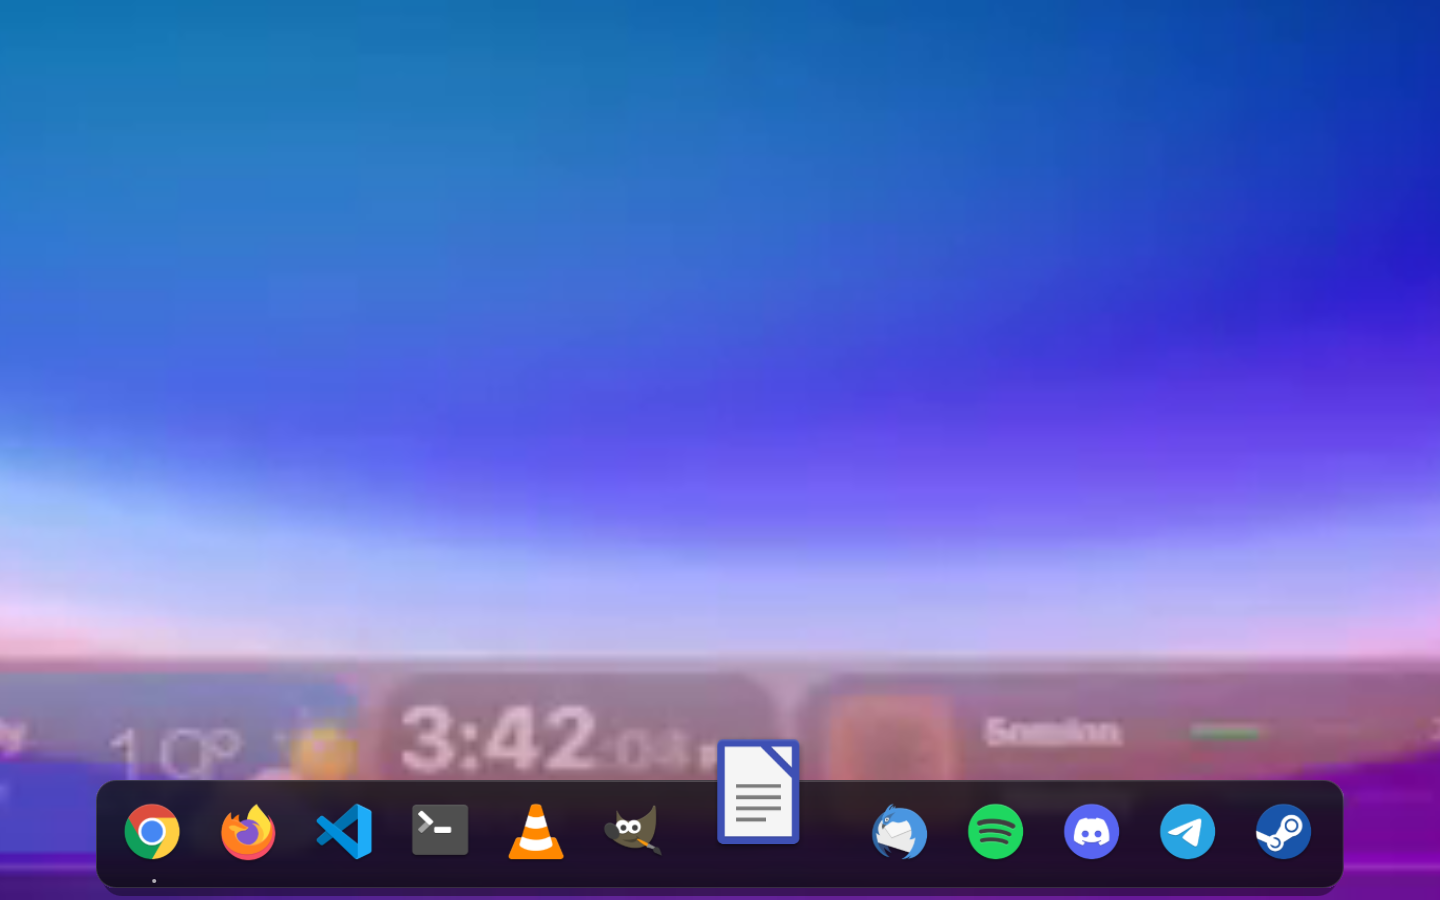
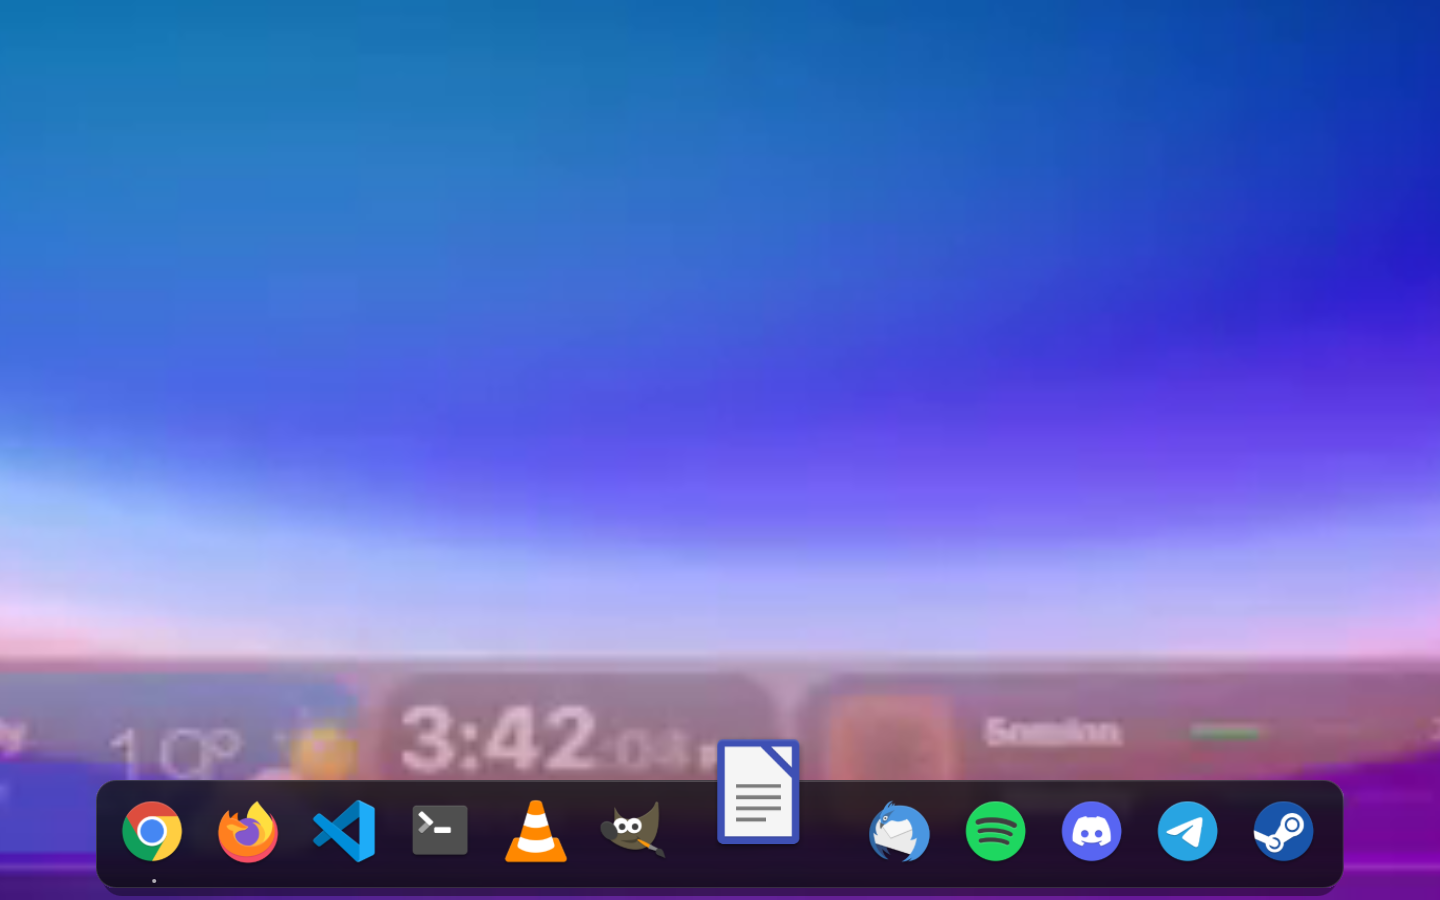
Dock: ikonlarda optik agirlik esitlendi
- Kirpilan ikonun bbox doluluk orani olculuyor; dusuk kaplama +%12'ye kadar buyutuluyor, kare/iri olan -%4'e kadar kucultuluyor.
- Ornek: GIMP/VLC/Code +12, Firefox/Thunderbird +10, Chrome/Spotify/Discord +8, Writer +0, Terminal -2.
- 84 px kutu ve 12 px aralik korundu; 01-bos basta olmak uzere kanitlar yenilendi.

diff --git a/dock/ikon.py b/dock/ikon.py
@@ -121,9 +121,35 @@ def _plaka_var(resim: QImage) -> bool:
     )
 
 
+def _doluluk(resim: QImage) -> float:
+    """Kirpilmis ikonun bbox icindeki dolu piksel orani."""
+    gen, yuk = resim.width(), resim.height()
+    if gen <= 0 or yuk <= 0:
+        return 1.0
+    veri = resim.constBits()
+    adim = resim.bytesPerLine()
+    dolu = 0
+    for y in range(yuk):
+        satir = veri[y * adim:y * adim + gen * 4]
+        dolu += sum(1 for a in satir[3::4] if a > _ALFA_ESIGI)
+    return dolu / (gen * yuk)
+
+
+def _optik_carpan(oran: float) -> float:
+    """Dusuk kaplamali (yuvarlak/ince) logoyu buyut, kare/iri olani kucult."""
+    if oran <= 0.55:
+        return 1.12
+    if oran <= 0.70:
+        return 1.12 - (oran - 0.55) / 0.15 * 0.04
+    if oran <= 0.76:
+        return 1.08 - (oran - 0.70) / 0.06 * 0.08
+    return 1.0 - min(0.04, (oran - 0.76) / 0.14 * 0.04)
+
+
 def _son_goruntu(kirpik: QImage) -> QImage:
-    """Kirpilmis ikonu 56 px kutuya (8 px bosluk) yerlestirir, golge ekler."""
-    olcek = min(_IC / max(1, kirpik.width()), _IC / max(1, kirpik.height()))
+    """Kirpilmis ikonu 56 px kutuya yerlestirir; optik agirligi esitler."""
+    icerik = _IC * _optik_carpan(_doluluk(kirpik))
+    olcek = min(icerik / max(1, kirpik.width()), icerik / max(1, kirpik.height()))
     yeni = kirpik.scaled(
         max(1, round(kirpik.width() * olcek)),
         max(1, round(kirpik.height() * olcek)),
@@ -170,7 +196,7 @@ def hazirla(kaynak: str) -> str:
         damga = f"{yol.stat().st_mtime_ns}:{yol.stat().st_size}"
     except OSError:
         return ""
-    anahtar = hashlib.sha1(f"{yol}:{damga}:5".encode()).hexdigest()[:20]
+    anahtar = hashlib.sha1(f"{yol}:{damga}:6".encode()).hexdigest()[:20]
     hedef = _onbellek_dizini() / f"{anahtar}.png"
     if hedef.is_file():
         return str(hedef)
